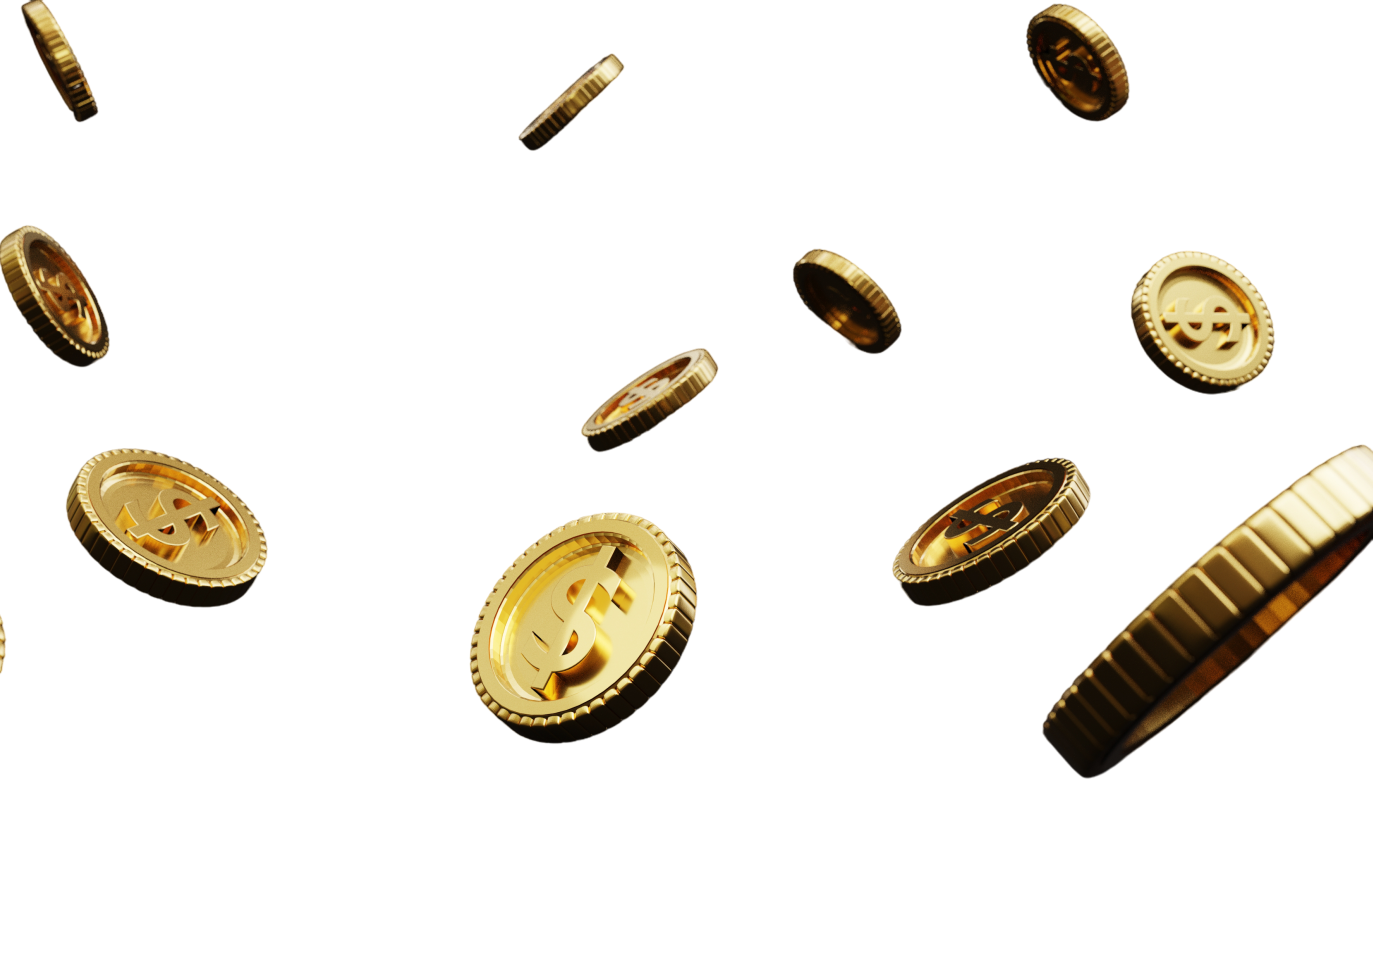
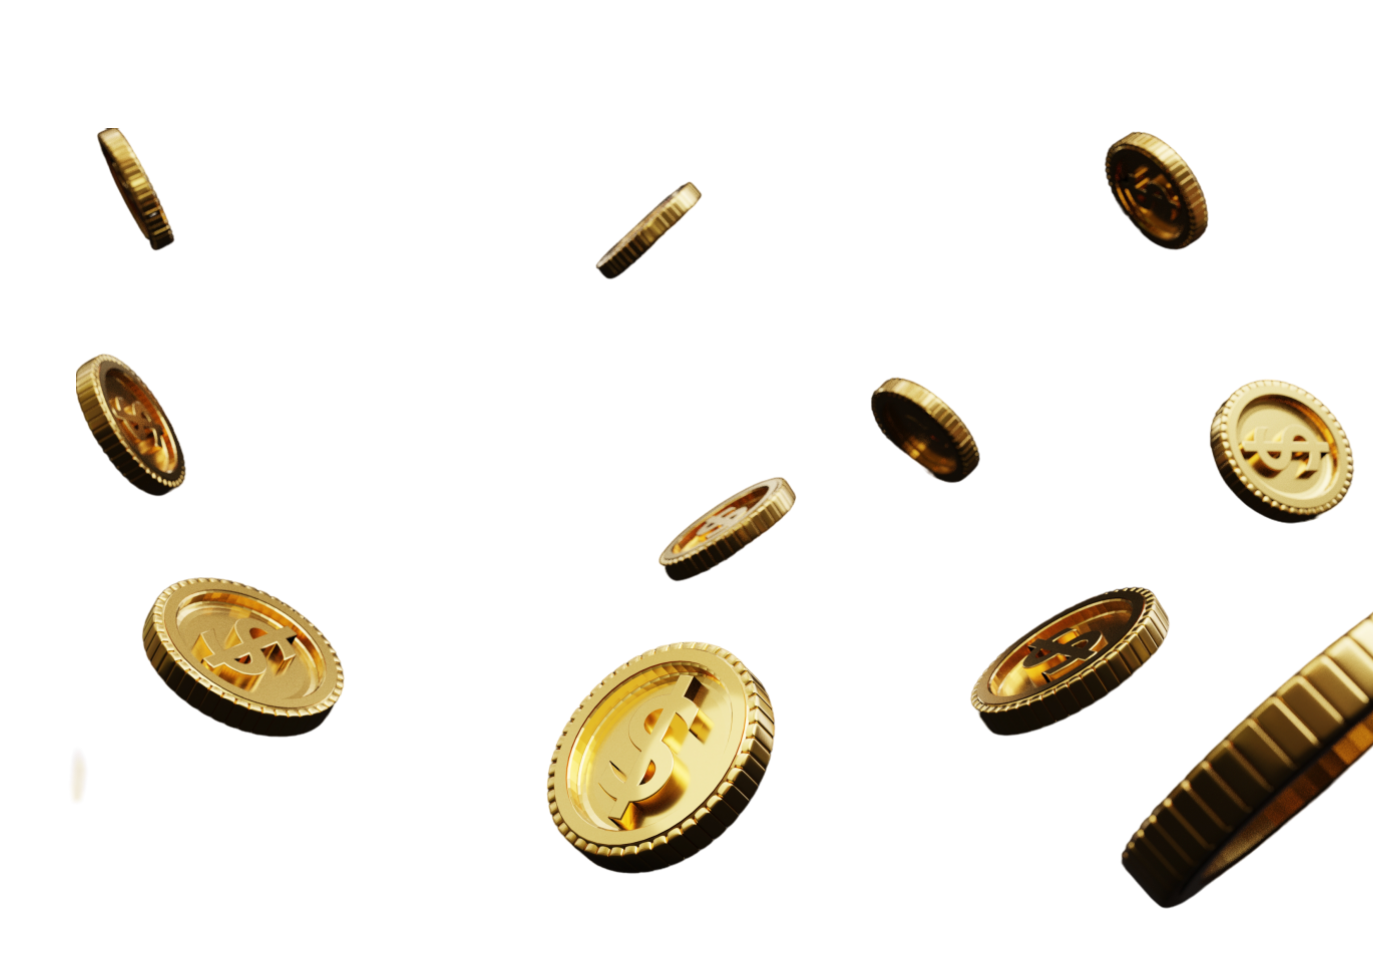
eu progresez, eu sunt perseverenta

diff --git a/src/components/moneyGuard.module.scss b/src/components/moneyGuard.module.scss
@@ -82,6 +82,7 @@ ul li {
 .logWrapper,
 .regWrapper,
 .logoutWrapper {
+  height: 100vh;
   box-sizing: border-box;
   background: radial-gradient(
     circle,
@@ -90,34 +91,20 @@ ul li {
     rgb(36, 18, 87) 100%
   );
   width: 100vw;
+  height: 100vh;
   margin: 0px;
+  display: flex;
+  justify-content: center;
+  align-items: center;
 }
 
-.logWrapper {
-  height: 100vh;
-  padding-top: calc((100vh - 378px - 100px) / 2);
-}
 
-.regWrapper {
-  height: 100vh;
-  padding-top: calc((100vh - 520px) / 2);
-}
 
-.loginContainer {
-  padding: 0px;
-  width: inherit;
-}
 
-.registerContainer {
-  padding: 0px;
-
-  width: inherit;
-}
 
 .loginContainer,
 .registerContainer {
   .logoWrapper {
-    margin: 0px auto;
     color: white;
     font-size: 24px;
     display: flex;
@@ -143,7 +130,6 @@ ul li {
       display: flex;
       align-items: center;
       color: rgba(206, 204, 204, 0.664);
-      font-size: 20px;
       font-weight: 400;
       border-bottom: 1px solid hsla(0, 2%, 80%, 0.664);
       padding: 0px 8px;
@@ -614,7 +600,6 @@ ul li {
 
 //newCard
 .newCardWrapper,
-.logoutWrapper,
 .newCoinWrapper {
   box-sizing: border-box;
   width: 100vw;
@@ -1293,86 +1278,118 @@ ul li {
 }
 
 @media screen and (min-width: 768px) {
+  .loginContainer,
+  .registerContainer {
+    .formLogReg {
+      gap: 30px;
+      margin: 30px auto 0px auto;
+      .formInput {
+        max-width: 400px;
+        svg {
+          min-height: 40px;
+          min-width: 28px;
+        }
+        input,
+        input:placeholder-shown {
+          font-size: 23px;
+        }
+        
+      }
+            .formInput:last-of-type {
+              margin-bottom: 30px;
+            }
+    }
+  }
+
   .allinOneWrapper {
     position: relative;
     background-image: url('../helpers/images/coins.png'),
       url('../helpers/images/simpleBackground.jpg');
     background-repeat: no-repeat, no-repeat;
-    background-position: right 1%, center;
+    background-position: center 30%, center;
     background-size: cover, cover;
     background-attachment: fixed;
     min-height: 100vh;
     .newCoinFormAllModal {
-        position: absolute;
-        top: 0px;
-        left: 0;
-        width: 100%;
-        height: 100%;
-        z-index: 2;
+      position: absolute;
+      top: 0px;
+      left: 0;
+      width: 100%;
+      height: 100%;
+      z-index: 2;
+      display: flex;
+      justify-content: center;
+      align-items: center;
+      background-color: rgba(152, 137, 165, 0.699);
+
+      .newCoinFormAll {
+        box-sizing: border-box;
         display: flex;
-        justify-content: center;
-        align-items: center;
-        background-color: rgba(152, 137, 165, 0.699);
-    
-        .newCoinFormAll {
+        flex-direction: column;
+        gap: 20px;
+        width: 400px;
+        background: radial-gradient(
+          circle,
+          rgb(69 77 219) 20%,
+          rgb(66, 48, 202) 75%,
+          rgba(34, 27, 139, 0.9) 100%
+        );
+        border-radius: 8px;
+        padding: 30px 0px;
+
+        input {
           box-sizing: border-box;
-          display: flex;
-          flex-direction: column;
-          gap: 20px;
-          width: 400px;
-          background-color: rgba(115, 38, 187);
-          border-radius: 8px;
-          padding: 30px 0px;
-    
-          input {
-            box-sizing: border-box;
-            width: 300px;
-            padding: 5px 0px;
-            background-color: inherit;
-            outline: none;
-            border: none;
-            border-bottom: 1px solid rgb(235, 232, 232);
-            font-size: 20px;
-            color: white;
-            padding-left: 15px;
-            margin: 0 auto;
-          }
-    
-          input:first-of-type {
-            margin-top: 20px;
-          }
-    
-          input:placeholder-shown {
-            color: rgb(235, 232, 232);
-            font-weight: 400;
-            font-size: 20px;
-          }
+          width: 300px;
+          padding: 5px 0px;
+          background-color: inherit;
+          outline: none;
+          border: none;
+          border-bottom: 1px solid rgb(235, 232, 232);
+          font-size: 20px;
+          color: white;
+          padding-left: 15px;
+          margin: 0 auto;
+        }
+
+        input:first-of-type {
+          margin-top: 20px;
+        }
+
+        input:placeholder-shown {
+          color: rgb(235, 232, 232);
+          font-weight: 400;
+          font-size: 20px;
         }
       }
-    
-      .newCardFormAllModal {
-        position: absolute;
-        top: 0px;
-        left: 0;
-        width: 100%;
-        height: 100%;
-        z-index: 2;
-                display: flex;
-                  justify-content: center;
-                  align-items: center;
-        background-color: rgba(152, 137, 165, 0.699);
-    
-        .newCardContainer {
-          box-sizing: border-box;
-          background-color: rgba(115, 38, 187);
-          width: fit-content;
-          padding: 30px 50px;
-          border-radius: 8px;
-          .bigButtons {
-            margin-top: 20px;
-          }
+    }
+
+    .newCardFormAllModal {
+      position: absolute;
+      top: 0px;
+      left: 0;
+      width: 100%;
+      height: 100%;
+      z-index: 2;
+      display: flex;
+      justify-content: center;
+      align-items: center;
+      background-color: rgba(152, 137, 165, 0.699);
+
+      .newCardContainer {
+        box-sizing: border-box;
+        background: radial-gradient(
+          circle,
+          rgb(69 77 219) 20%,
+          rgb(66, 48, 202) 75%,
+          rgba(34, 27, 139, 0.9) 100%
+        );
+        padding: 30px 50px;
+        border-radius: 8px;
+        .bigButtons {
+          margin-top: 20px;
         }
       }
+    }
     .sharedLayoutWrapper {
       height: 64px;
     }
@@ -2028,7 +2045,6 @@ ul li {
         }
       }
 
-
       .addButtonAll {
         background: -webkit-linear-gradient(
           to right,
@@ -2063,9 +2079,11 @@ ul li {
   .allinOneWrapper {
     box-sizing: border-box;
     .newCoinFormAllModal .newCoinFormAll,
-    .newCardFormAllModal .newCardContainer {margin-top: 70px;}
+    .newCardFormAllModal .newCardContainer {
+      margin-top: 70px;
+    }
     .notSharedLayout {
-          box-sizing: border-box;
+      box-sizing: border-box;
       flex-direction: row;
       width: 100%;
       padding-bottom: 0px;
@@ -2100,9 +2118,9 @@ ul li {
           .currencyTableAll {
             width: 415px;
             thead {
-            th  .addButtonAll {
-                  margin-left: 40px;
-                }
+              th .addButtonAll {
+                margin-left: 40px;
+              }
             }
           }
         }
@@ -2138,7 +2156,10 @@ ul li {
         }
 
         .statisticsSection {
-          .statistics{padding-top: 0px; margin-top: -10px;}
+          .statistics {
+            padding-top: 0px;
+            margin-top: -10px;
+          }
         }
       }
     }
